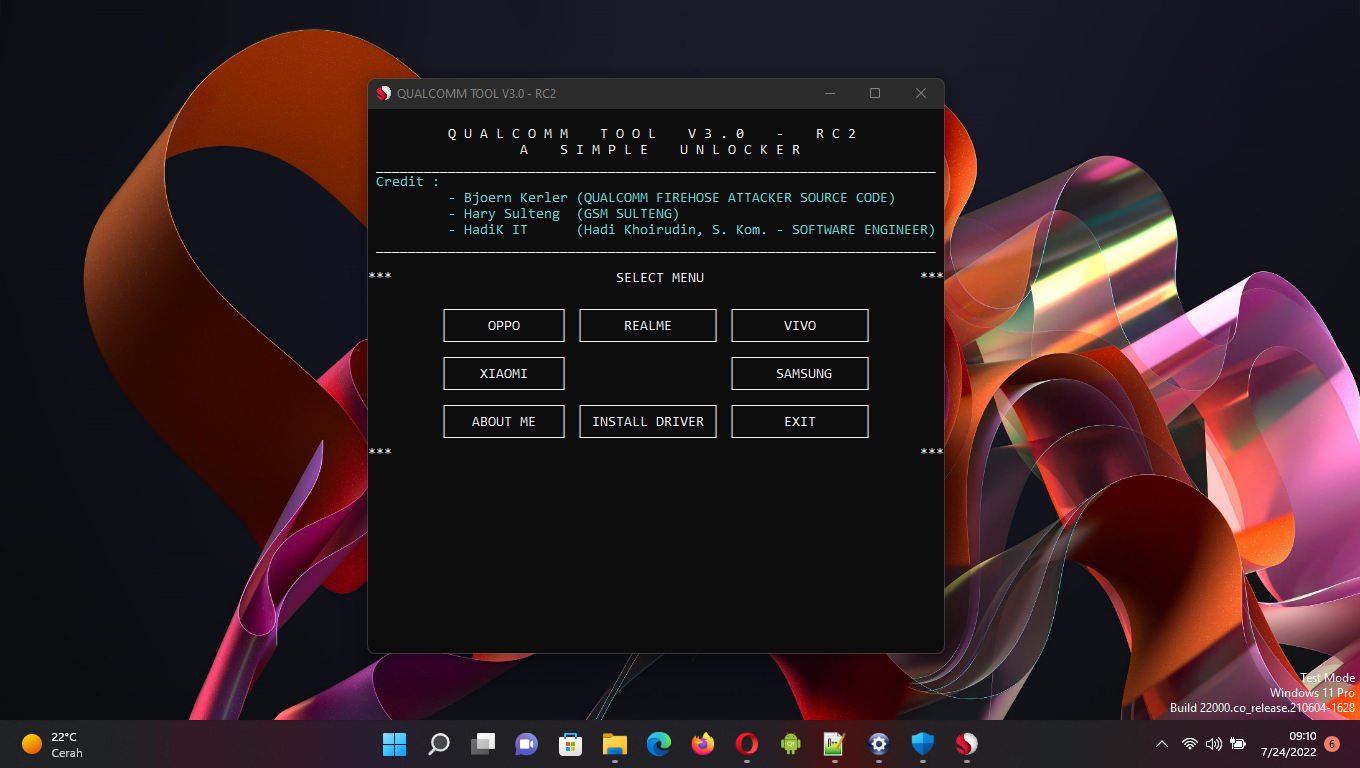
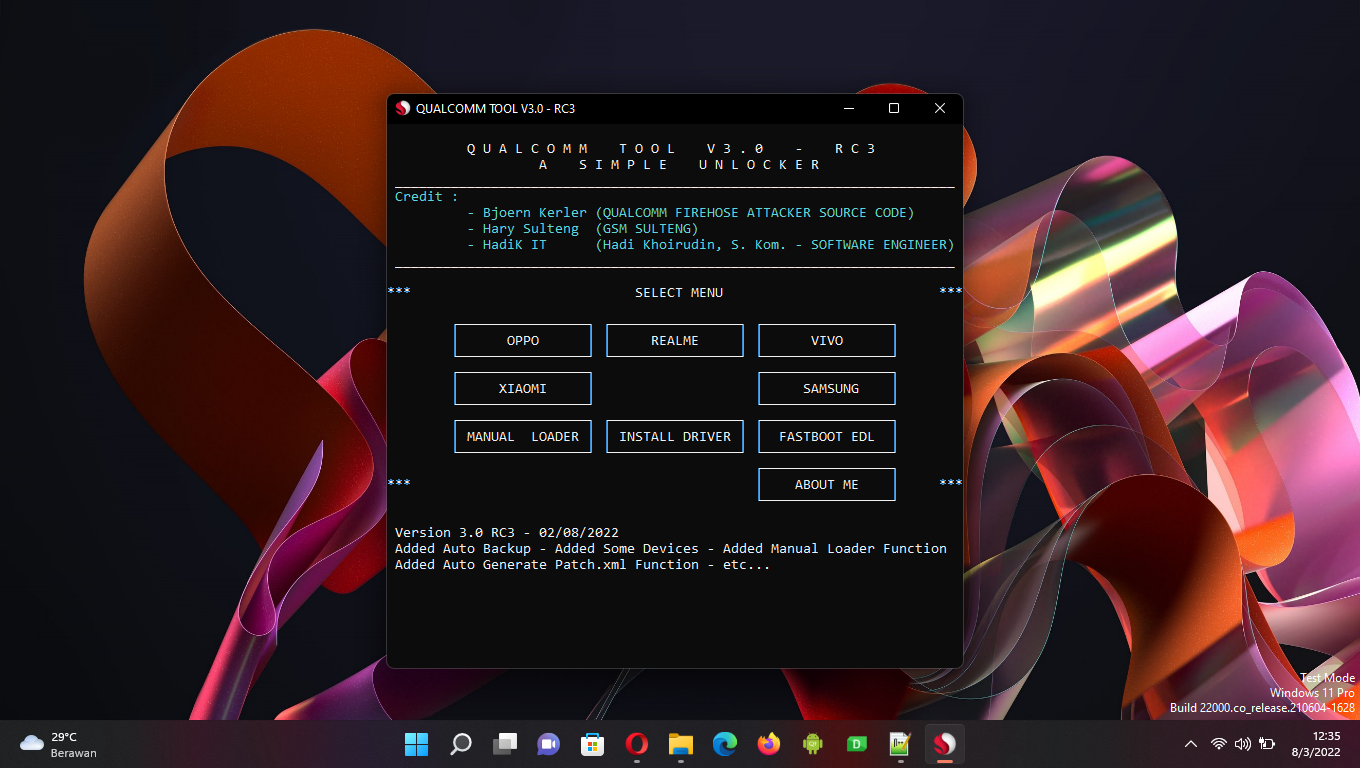
Release V3.0 RC3 - Fix

diff --git a/README.md b/README.md
@@ -1,7 +1,7 @@
 # Qualcomm-Tool
 For educational purposes, learn how a batch script can handle emmcdl process.
 
-[![ice-screenshot-20220802-014153.png](https://i.postimg.cc/yxH6CX7b/ice-screenshot-20220802-014153.png)](https://postimg.cc/sQTCpWQY)
+[![image-2022-08-03-123649441.png](https://i.postimg.cc/d00bbxSb/image-2022-08-03-123649441.png)](https://postimg.cc/xXWpHtQ5)
 
 ## Recent supported list :
 
@@ -138,6 +138,7 @@ get it on YouTube at HadiK IT Channel.
 
 ```
 + Added some device
-+ Added Reset Facotry, Reset Safe Data, Reset Account, Reset IMEI, Reboot function
++ Added Reset Facotry, Reset Safe Data, Reset Account, Reset IMEI
++ Added Reboot Funtion For Test, Fastboot EDL Xiaomi and Vivo
 + Added Manual Loader / Programming function
 ```
